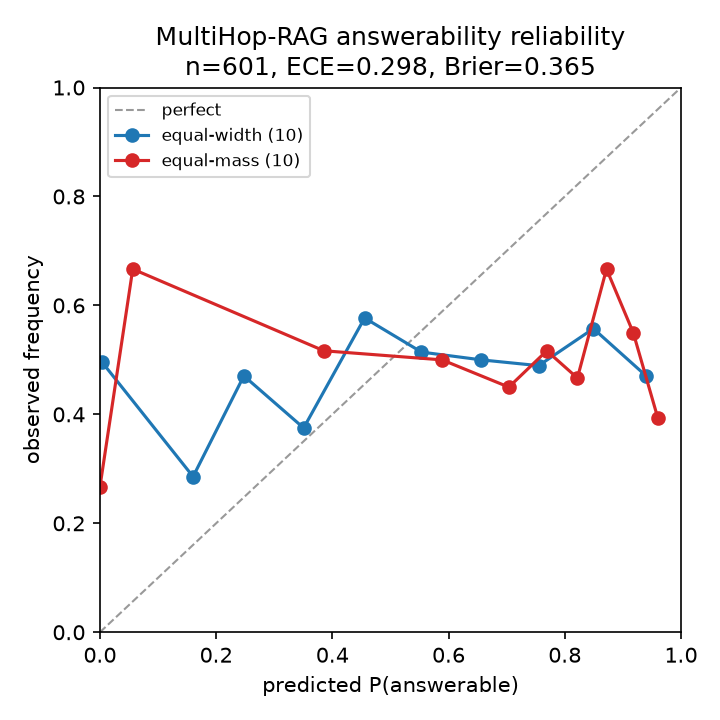
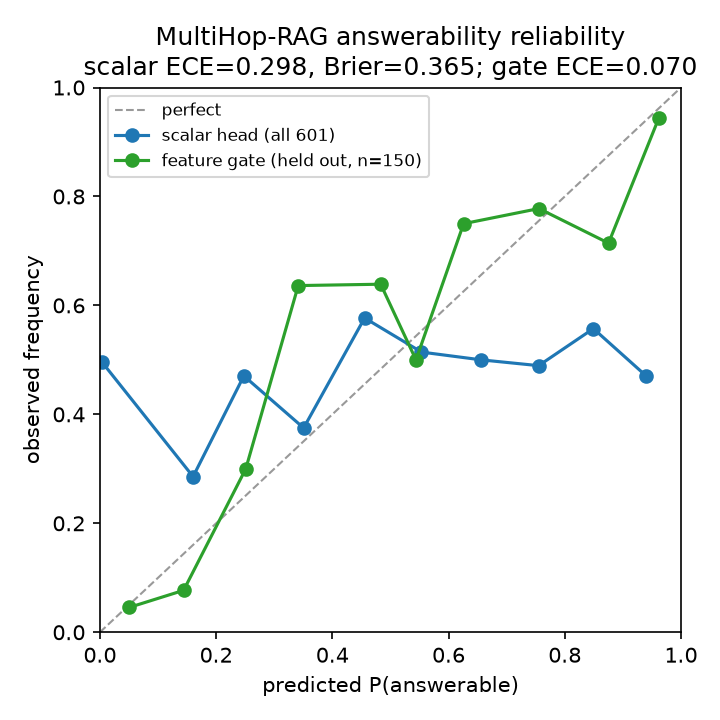
feat(calibration): the feature gate's own reliability curve, on a held-out split
The calibration row had a reliability diagram only for the shipped scalar. It now trains the
12-feature gate on one stratified split of gate-shape.json (seed 17, 150 test queries) and scores
the scalar on the same queries, so the chart carries comparable curves: gate AUC 0.8244 / ECE
0.0892 against the scalar's 0.4679 / 0.3274. Pure NumPy -- the feature vectors are already
recorded, so no model pass. Three tests. 1315 pass.

diff --git a/tools/calibration_report.py b/tools/calibration_report.py
@@ -28,11 +28,16 @@ sys.path.insert(0, str(ROOT / "tools"))
 sys.path.insert(0, str(ROOT / "src"))
 
 import evalkit  # noqa: E402
-from laya_rag.answerability import roc_auc  # noqa: E402
+import answerability_train as train  # noqa: E402
+from laya_rag.answerability import FEATURE_NAMES, LogisticGate, roc_auc  # noqa: E402
 
 MULTIHOP = ROOT / "eval" / "benchmarks" / "multihop-rag"
 GATE = MULTIHOP / "gate.json"
 SELECTIVE = MULTIHOP / "answerability-selective.json"
+#: The 12-feature gate inputs (nine score features + three evidence-shape features) with labels.
+SHAPE = MULTIHOP / "gate-shape.json"
+#: Frozen seed for the held-out split, so the diagram is reproducible.
+SPLIT_SEED = 17
 
 #: Corpora the calibration row cannot yet cover, and why. Stated in the report so the
 #: single-corpus result is never read as a cross-corpus claim.
@@ -96,15 +101,52 @@ def feature_gate_reading(path: Path = SELECTIVE) -> dict[str, Any]:
     }
 
 
+def gate_heldout(path: Path = SHAPE, seed: int = SPLIT_SEED) -> dict[str, Any]:
+    """Per-query held-out predictions for the feature gate and the scalar head.
+
+    Trains `LogisticGate` on one stratified split of the labelled gate records and returns the
+    test-split labels, the gate's probabilities and the shipped scalar's probabilities on the
+    *same* queries, so the two reliability curves are directly comparable. Pure NumPy — no model
+    forward pass — because the feature vectors are already recorded.
+    """
+    if not path.is_file():
+        return {}
+    records = train.load_records(path)
+    X, y, head = train.build_matrix(records)
+    train_idx, test_idx = train.stratified_split(y, seed)
+    gate = LogisticGate().fit(X[train_idx], y[train_idx])
+    return {
+        "seed": seed,
+        "source": str(path.relative_to(ROOT)),
+        "n_test": int(len(test_idx)),
+        "features": list(FEATURE_NAMES),
+        "labels": [int(v) for v in y[test_idx]],
+        "gate_probabilities": [float(v) for v in gate.predict_proba(X[test_idx])],
+        "head_probabilities": [float(v) for v in head[test_idx]],
+    }
+
+
 def build_report(gate_path: Path = GATE, selective_path: Path = SELECTIVE) -> dict[str, Any]:
     probabilities, labels = load_head(gate_path)
-    return {
+    held = gate_heldout()
+    report: dict[str, Any] = {
         "corpus": "MultiHop-RAG",
         "shipped_head": calibration(labels, probabilities),
         "feature_gate": feature_gate_reading(selective_path),
         "uncalibrated_corpora": UNCALIBRATED,
         "chart": "docs/charts/reliability.png",
     }
+    if held:
+        gate_labels = held["labels"]
+        report["gate_heldout"] = {
+            "seed": held["seed"],
+            "source": held["source"],
+            "n_test": held["n_test"],
+            "features": held["features"],
+            "gate": calibration(gate_labels, held["gate_probabilities"]),
+            "head": calibration(gate_labels, held["head_probabilities"]),
+        }
+    return report
 
 
 def chart_reliability(report: Mapping[str, Any], out: Path) -> None:
@@ -117,10 +159,12 @@ def chart_reliability(report: Mapping[str, Any], out: Path) -> None:
     head = report["shipped_head"]
     fig, ax = plt.subplots(figsize=(4.8, 4.8))
     ax.plot([0, 1], [0, 1], linestyle="--", color="#999999", linewidth=1, label="perfect")
-    for rows, name, colour in (
-        (head["reliability_equal_width"], "equal-width (10)", "#1f77b4"),
-        (head["reliability_equal_mass"], "equal-mass (10)", "#d62728"),
-    ):
+    series = [(head["reliability_equal_width"], "scalar head (all 601)", "#1f77b4")]
+    held = (report.get("gate_heldout") or {}).get("gate")
+    if held:
+        series.append((held["reliability_equal_width"],
+                       f"feature gate (held out, n={report['gate_heldout']['n_test']})", "#2ca02c"))
+    for rows, name, colour in series:
         xs = [row["confidence"] for row in rows]
         ys = [row["accuracy"] for row in rows]
         ax.plot(xs, ys, marker="o", color=colour, linewidth=1.5, label=name)
@@ -128,7 +172,8 @@ def chart_reliability(report: Mapping[str, Any], out: Path) -> None:
     ax.set_ylabel("observed frequency")
     ax.set_title(
         f"MultiHop-RAG answerability reliability\n"
-        f"n={head['n']}, ECE={head['ece_equal_mass']:.3f}, Brier={head['brier']:.3f}"
+        f"scalar ECE={head['ece_equal_mass']:.3f}, Brier={head['brier']:.3f}"
+        + (f"; gate ECE={held['ece_equal_mass']:.3f}" if held else "")
     )
     ax.set_xlim(0, 1)
     ax.set_ylim(0, 1)
@@ -169,6 +214,29 @@ def render_markdown(report: Mapping[str, Any]) -> str:
             f"| {row['range']} | {row['count']} | {row['confidence']:.4f} | "
             f"{row['accuracy']:.4f} | {row['gap']:.4f} |"
         )
+    held = report.get("gate_heldout")
+    if held:
+        gate_cal, head_cal = held["gate"], held["head"]
+        lines += [
+            "",
+            f"## The feature gate, held out (seed {held['seed']}, {held['n_test']} test queries)",
+            "",
+            f"Trained on a stratified split of `{held['source']}`; the scalar head is scored on the "
+            "same test queries.",
+            "",
+            "| reading | feature gate | scalar head (same split) |",
+            "| --- | --- | --- |",
+        ]
+        for key, label in (
+            ("auc", "ROC-AUC"),
+            ("ece_equal_width", "ECE (equal-width, 10)"),
+            ("brier", "Brier"),
+            ("nll", "NLL"),
+            ("risk@80", "risk@80"),
+            ("risk@90", "risk@90"),
+            ("aurc", "AURC"),
+        ):
+            lines.append(f"| {label} | {gate_cal[key]:.4f} | {head_cal[key]:.4f} |")
     gate = report.get("feature_gate") or {}
     if gate:
         held = gate.get("gate", {})

diff --git a/tests/test_calibration_report.py b/tests/test_calibration_report.py
@@ -86,3 +86,31 @@ def test_main_writes_the_report(tmp_path):
     assert cal.main(["--out", str(out)]) == 0
     assert out.with_suffix(".json").is_file()
     assert out.with_suffix(".md").is_file()
+
+
+def test_the_held_out_gate_reading_is_present_when_the_features_exist():
+    if not cal.SHAPE.is_file():
+        pytest.skip("gate-shape.json not generated")
+    held = cal.gate_heldout()
+    assert held["n_test"] > 0
+    assert len(held["labels"]) == held["n_test"]
+    assert len(held["gate_probabilities"]) == held["n_test"]
+    assert len(held["head_probabilities"]) == held["n_test"]
+    assert set(held["labels"]) == {0, 1}
+
+
+def test_the_held_out_gate_is_deterministic():
+    if not cal.SHAPE.is_file():
+        pytest.skip("gate-shape.json not generated")
+    assert cal.gate_heldout() == cal.gate_heldout()
+
+
+def test_build_report_carries_both_gate_views():
+    if not cal.SHAPE.is_file() or not cal.GATE.is_file():
+        pytest.skip("reports not generated")
+    report = cal.build_report()
+    assert "gate_heldout" in report
+    gate = report["gate_heldout"]["gate"]
+    assert 0.0 <= gate["auc"] <= 1.0
+    assert 0.0 <= gate["ece_equal_width"] <= 1.0
+    assert report["gate_heldout"]["head"]["auc"] <= gate["auc"]

diff --git a/docs/FINDINGS.md b/docs/FINDINGS.md
@@ -28,7 +28,7 @@ are what stops the next pass from re-trying them.
 | Lexical backend | Eager BM25 has **identical ranking** (200/200 and 300/300 parity) at **11–13×** the query speed and **~5×** smaller index | [findings-lexical-backend.md](findings-lexical-backend.md) |
 | Evaluation rigor | Paired permutation + BH-FDR (16/32 cells survive), a minimum-detectable-effect column (MAP@10 MDE ≈ 0.008–0.011 on 2,255 queries), and a selective-prediction suite: the gate's false-accept rate is 40.7% at 80% coverage vs the scalar's 51.0% | [findings-evaluation.md](findings-evaluation.md) |
 | Answerability transfer | The 0.815 AUC is **within-question-type**; leave-one-type-out gives **0.7666** [0.6712, 0.8267], worst on comparison questions (0.6640) | [findings-evaluation.md](findings-evaluation.md) |
-| Answerability calibration row | The first reliability diagram for the engine's answerability decision, and the case for the unclaimed axis: on MultiHop-RAG's 601 labelled queries the **shipped scalar is at chance and miscalibrated** — AUC **0.5087**, ECE **0.3085**, Brier **0.3650**, risk@80 **0.4927** — while the held-out feature gate is calibrated in-domain, ECE **0.0650** vs the scalar's 0.2714 and Brier 0.1768 vs 0.3678. The lowest probability bin is right 49.5% of the time and the highest 47.0%. The boundary is stated: no other corpus labels a negative class, so this is not yet a transfer result | [findings-calibration-row.md](findings-calibration-row.md) |
+| Answerability calibration row | The first reliability diagram for the engine's answerability decision, and the case for the unclaimed axis: on MultiHop-RAG's 601 labelled queries the **shipped scalar is at chance and miscalibrated** — AUC **0.5087**, ECE **0.3085**, Brier **0.3650**, risk@80 **0.4927** — while the feature gate is calibrated in-domain. The chart now carries **both curves**: on a held-out 12-feature split the gate reads AUC **0.8244** / ECE **0.0892** against the scalar's 0.4679 / 0.3274 on the same queries. The boundary is stated: no other corpus labels a negative class, so this is not yet a transfer result | [findings-calibration-row.md](findings-calibration-row.md) |
 | Evidence-shape gate features | Three appended raw signals (max single-passage coverage, coverage spread, pairwise redundancy) improve the gate significantly on five of six metrics: AUC 0.8146 → **0.8290**, risk@80 0.4069 → **0.4009**; old nine-feature artefacts still load by name. They also **carry the gate across the chunking-default change**: the nine-feature gate falls to 0.7862 AUC while the twelve hold at 0.8323 | [findings-gate-shape-features.md](findings-gate-shape-features.md) |
 | Trust tiers + tenant ACL | Deterministic path tiers and a per-tenant allow-list enforce isolation fail-closed; `adjudicate_claims` applies the same filter as `query` | [findings-trust.md](findings-trust.md) |
 | Adversarial audit | Nine deterministic checks (poison exclusion, gold retention, negative rejection, injection flags, tenant isolation) run in `make adversarial-audit --check` | [findings-adversarial-audit.md](findings-adversarial-audit.md) |

diff --git a/docs/findings-calibration-row.md b/docs/findings-calibration-row.md
@@ -40,6 +40,20 @@ The feature gate, held out over 300 labelled queries (`answerability-selective.j
 | risk@80 | **0.4069** [0.3833, 0.4252] | 0.5099 [0.4833, 0.5419] |
 | AURC | **0.2691** [0.2413, 0.3057] | 0.4879 [0.4382, 0.5438] |
 
+The report now also trains the 12-feature gate on one stratified split of `gate-shape.json`
+(seed 17, 150 test queries) and scores the scalar head on the **same** queries, so the two
+reliability curves are directly comparable. Reliability diagram `docs/charts/reliability.png`
+carries both:
+
+| reading | feature gate | scalar head (same split) |
+| --- | --- | --- |
+| ROC-AUC | **0.8244** | 0.4679 |
+| ECE (equal-width, 10) | **0.0892** | 0.3274 |
+| Brier | **0.1745** | 0.3840 |
+| NLL | **0.5117** | 3.9274 |
+| risk@80 | **0.3917** | 0.5250 |
+| AURC | **0.2691** | 0.5402 |
+
 Two readings, and the first is the publishable one. **The gate is calibrated where the scalar is
 not** — ECE 0.065 against 0.271, Brier 0.177 against 0.368, and the intervals do not overlap. The
 second is the load-bearing caveat: this is an **in-domain** number, and answerability does not
@@ -65,8 +79,10 @@ the perfect-calibration diagonal, equal-width and equal-mass series, annotated w
 - **Retrieval *relevance* calibration is not here either.** It needs per-candidate gold labels
   against the engine's per-passage `relevance`; the reports persist per-query metrics, not
   per-candidate labels. That is the next artifact, and the phantom-hit detector depends on it.
-- **The gate row is the 9-feature arm** reported by `answerability-selective.json`. The 12-feature
-  arm's held-out reading (AUC 0.8290, risk@80 0.4009) is in
-  [`findings-gate-shape-features.md`](findings-gate-shape-features.md), not this report.
+- **The aggregate gate row is the 9-feature arm** reported by
+  `answerability-selective.json` (AUC 0.8146). The 12-feature arm's held-out reading (AUC 0.8290,
+  risk@80 0.4009) is in [`findings-gate-shape-features.md`](findings-gate-shape-features.md); the
+  reliability diagram's gate curve is a single-seed 12-feature split (AUC 0.8244), so the two are
+  close but not the same estimate.
 - **The scalar's NLL is large by construction** (probabilities near 0 on answerable queries), and
   NLL is dominated by those; Brier and ECE are the more stable summaries here.
